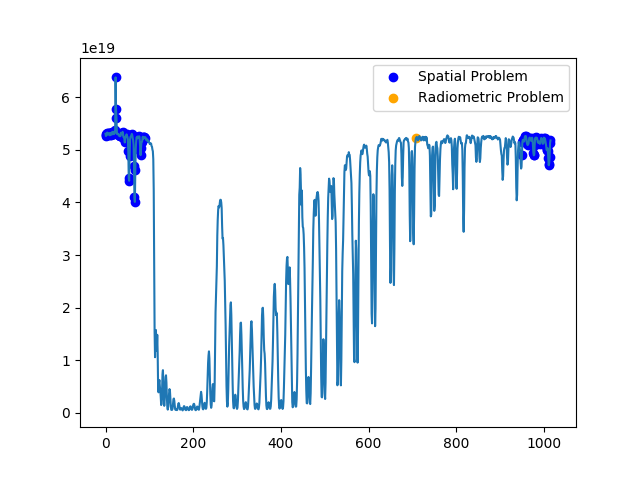
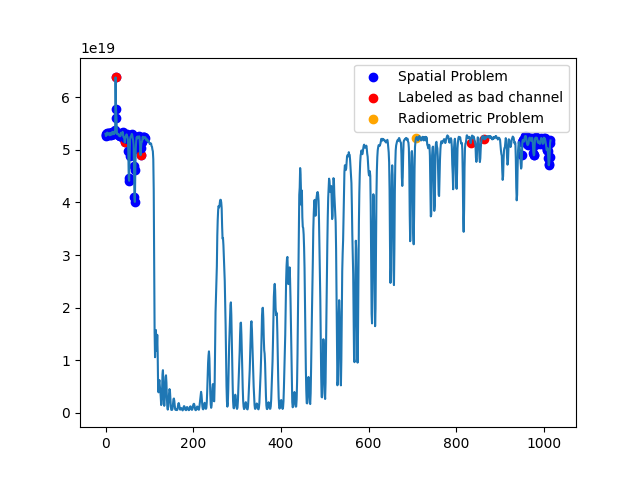
Temp commit

diff --git a/simulated_peak_finder.py b/simulated_peak_finder.py
@@ -2,6 +2,7 @@ import matplotlib.pyplot as plt
 import numpy as np
 import sys
 
+from collections import OrderedDict
 from sklearn.metrics import confusion_matrix
 
 def get_bad_channels_zscore(sample, k, num_std):
@@ -20,30 +21,35 @@ def get_bad_channels_zscore(sample, k, num_std):
 
     return bad_channels
 
-def get_bad_channels_polyfit(sample, k, _degree):
+def get_bad_channels_polyfit(sample, num_std, _degree):
     bad_channels = []
-    
+
+    coefs = np.polyfit(np.arange(len(sample)),
+                          sample,
+                          _degree)
+    fitted_line = OrderedDict([])
     for i, dat in enumerate(sample):
-        sub_sample = sample[max(0,i-k):min(i+k+1,len(sample))]
-        sub_sample = np.delete(sub_sample, k)
+        x = [i ** d for d in range(_degree+1)]
 
-        coefs = numpy.polyfit(np.arange(len(sub_sample),
-                              sub_sample,
-                              _degree))
+        fitted_line[i] = np.sum(coefs * x[::-1])
 
-        ploy_expectation = np.sum(coefs * k)
-        
-        # Find scheme to compare expectation to real data
+    new_std = np.std(fitted_line.values())
+    
+    for (i, dat), fit in zip(enumerate(sample), fitted_line.values()):
+        if abs(dat - fit) / new_std > num_std:
+            bad_channels.append(i)
 
+    #print bad_channels
+    return bad_channels
 
 if __name__ == "__main__":
 
     num_channels = 300
     outliers_frac = 0.05
 
-    np.random.seed(42)
+    np.random.seed(45)
 
-    channel = np.zeros(num_channels)
+    sample = np.zeros(num_channels)
     probs = np.random.uniform(0,1,300)
 
     bad_true = []
@@ -52,30 +58,21 @@ if __name__ == "__main__":
     for i, p in zip(np.arange(num_channels), probs):
         if p < outliers_frac:
             # Outlier
-            channel[i] = np.random.normal(int(i/50),5)
+            sample[i] = np.random.normal(int(i/50),5)
             bad_true.append(i)
         else:
             # Good channel
-            channel[i] = np.random.normal(int(i/50),1)
+            sample[i] = np.random.normal(int(i/50),1)
         
 
-    bad_pred = get_bad_channels_zscore(channel, 5, 3.75)
-
-    bad_true_full = np.zeros(num_channels)
-    bad_pred_full = np.zeros(num_channels)
-
-    '''
-    for i in bad_true:
-        bad_true_full[i] = 1
-
-    for i in bad_pred:
-        bad_pred_full[i] = 1
+    #bad_pred = get_bad_channels_polyfit(sample, 2.0, 10)
     
-    k_std = (0,0)
+    '''
+    deg_std = (0,0)
     accuracy = 0
-    for k in range(1, (num_channels/2)-1):
-        for std in np.arange(2,5, 0.25):
-            bad_pred = get_bad_channels_zscore(channel, k, std)
+    for std in np.arange(2,5, 0.25):
+        for d in range(1, 10):
+            bad_pred = get_bad_channels_polyfit(sample, std, d)
 
             bad_true_full = np.zeros(num_channels)
             bad_pred_full = np.zeros(num_channels)
@@ -88,23 +85,49 @@ if __name__ == "__main__":
 
             results = confusion_matrix(bad_true_full, bad_pred_full)
             temp_accuracy = float(results[0][0] + results[1,1]) / num_channels
-            if temp_accuracy > accuracy:
+            if temp_accuracy > accuracy and bad_pred:
                 accuracy = temp_accuracy
-                k_std = (k, std)
+                deg_std = (d, std)
+                print accuracy
 
     print 'Accuracy: ', accuracy
-    print 'k, std: ', k_std
+    print 'deg, std: ', deg_std
+
     '''
+    bad_pred = get_bad_channels_polyfit(sample, 2.0, 5)
+
+    bad_true_full = np.zeros(num_channels)
+    bad_pred_full = np.zeros(num_channels)
+
+    for i in bad_true:
+        bad_true_full[i] = 1
+
+    for i in bad_pred:
+        bad_pred_full[i] = 1
 
 
     #results = confusion_matrix(bad_true_full, bad_pred_full)
-    plt.plot(channel, color='blue')
+    _degree = 2
+
+    plt.plot(sample, color='black')
+    coefs = np.polyfit(np.arange(len(sample)),
+                          sample,
+                          _degree)
+    fitted_line = OrderedDict([])
+    print coefs
+    for i, dat in enumerate(sample):
+        x = [i ** d for d in range(_degree+1)]
+        print x
+
+        fitted_line[i] = np.sum(coefs * x[::-1])
+
+    plt.plot(fitted_line.values(), color='blue')
 
     good = False
     good_as_bad = False
     missed = False
 
-    for i, s in enumerate(channel):
+    for i, s in enumerate(sample):
         # Good channel classified as bad
         if i not in bad_true and i in bad_pred:
             if not good:
@@ -130,5 +153,5 @@ if __name__ == "__main__":
                 plt.scatter(i, s, color='orange')
 
     plt.legend()
-    #plt.savefig('simple_peak_finder.png')
+    plt.savefig('ploy_peak_finder_2.0_5.png')
     plt.show()

diff --git a/real_peak_finder.py b/real_peak_finder.py
@@ -8,6 +8,8 @@ print data
 '''
 import h5py
 import matplotlib.pyplot as plt
+
+from collections import OrderedDict
 from contextlib import closing
 
 def get_bad_channels_zscore(sample, k, num_std):
@@ -26,12 +28,33 @@ def get_bad_channels_zscore(sample, k, num_std):
 
     return bad_channels
 
+def get_bad_channels_polyfit(sample, num_std, _degree):
+    bad_channels = []
+
+    coefs = np.polyfit(np.arange(len(sample)),
+                          sample,
+                          _degree)
+    fitted_line = OrderedDict([])
+    for i, dat in enumerate(sample):
+        x = [i ** d for d in range(_degree+1)]
+
+        fitted_line[i] = np.sum(coefs * x[::-1])
+
+    new_std = np.std(fitted_line.values())
+    
+    for (i, dat), fit in zip(enumerate(sample), fitted_line.values()):
+        if abs(dat - fit) / new_std > num_std:
+            bad_channels.append(i)
+
+    #print bad_channels
+    return bad_channels
 
 with closing(h5py.File('oco2_L1bScND_13682a_170126_B7302_170127164246.h5', 'r')) as l1:
     samples = np.array(l1['SoundingMeasurements']['radiance_o2'])
     mask = np.array(l1['InstrumentHeader']['snr_coef'][:, :, :, 2])
-    fourth_band = samples[0][1]
-    fourth_mask = mask[0][1]
+    footprint = 7
+    fourth_band = samples[0][footprint]
+    fourth_mask = mask[0][footprint]
 
     num_channels = len(fourth_band)
 
@@ -39,46 +62,37 @@ with closing(h5py.File('oco2_L1bScND_13682a_170126_B7302_170127164246.h5', 'r'))
     p2 = False
     p4 = False
     bc = False
+    cb = False
 
-    bad_channels = get_bad_channels_zscore(fourth_band, 5, 3)
-    print bad_channels
-
-    '''
-    bad_true_full = np.zeros(len(fourth_band))
-    bad_pred_full = np.zeros(len(fourth_band))
-
-    for i in bad_true:
-        bad_true_full[i] = 1
-
-    for i in bad_pred:
-        bad_pred_full[i] = 1
     
-    k_std = (0,0)
-    accuracy = 0
-    for k in range(1, (num_channels/2)-1):
-        for std in np.arange(2,5, 0.25):
-            bad_pred = get_bad_channels_zscore(fourth_band, k, std)
-
-            bad_true_full = np.zeros(num_channels)
-            bad_pred_full = np.zeros(num_channels)
-
-            for i in bad_true:
-                bad_true_full[i] = 1
-
-            for i in bad_pred:
-                bad_pred_full[i] = 1
-
-            results = confusion_matrix(bad_true_full, bad_pred_full)
-            temp_accuracy = float(results[0][0] + results[1,1]) / num_channels
-            if temp_accuracy > accuracy:
-                accuracy = temp_accuracy
-                k_std = (k, std)
-
-    print 'Accuracy: ', accuracy
-    print 'k, std: ', k_std
     '''
+    deg_std = (0,0)
+    accuracy = 0
+    for std in np.arange(2,5, 0.25):
+        for d in range(1, 10):
+            bad_pred = get_bad_channels_polyfit(fourth_band, std, d)
 
+            if bad_pred:
+                deg_std = (d, std)
+                print accuracy
+
+    print 'deg, std: ', deg_std
+
+    '''
+    bad_channels = get_bad_channels_polyfit(fourth_band, 4.5, 1)
+
+    _degree = 5
     plt.plot(fourth_band)
+    coefs = np.polyfit(np.arange(len(fourth_band)),
+                          fourth_band,
+                          _degree)
+    fitted_line = OrderedDict([])
+    for i, dat in enumerate(fourth_band):
+        x = [i ** d for d in range(_degree+1)]
+
+        fitted_line[i] = np.sum(coefs * x[::-1])
+
+    plt.plot(fitted_line.values(), color='blue')
 
 
     for (i, val), msk in zip(enumerate(fourth_band), fourth_mask):
@@ -104,12 +118,20 @@ with closing(h5py.File('oco2_L1bScND_13682a_170126_B7302_170127164246.h5', 'r'))
                 plt.scatter(i, val, color='green')
         if i in bad_channels:
             if not bc:
-                plt.scatter(i, val, color='red', label='Labeled as bad channel')
+                plt.scatter(i, val, color='yellow', label='Labeled as bad channel')
                 bc = True
             else:
+                plt.scatter(i, val, color='yellow')
+        if i in bad_channels and msk == 1.0:
+            print 'WE DID IT!!!!'
+            if not cb:
+                plt.scatter(i, val, color='red', label='Correctly caught bad sample')
+                cb = True
+            else:
                 plt.scatter(i, val, color='red')
+        
 
 
     plt.legend()
-    plt.savefig('Simple_peak_finder_0_1.png')
+    #plt.savefig('Polyfit_real_peak_finder_2.0_5.png')
     plt.show()
